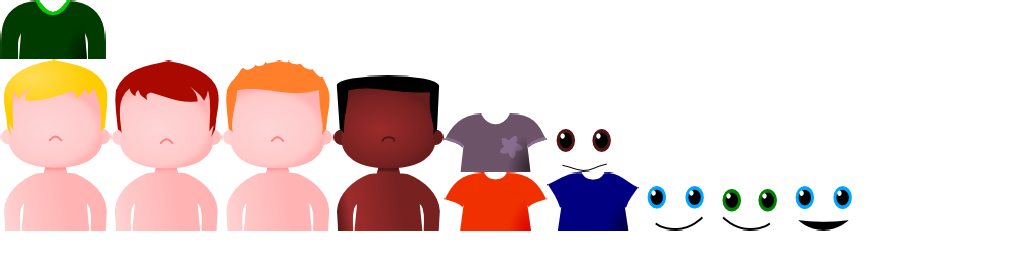
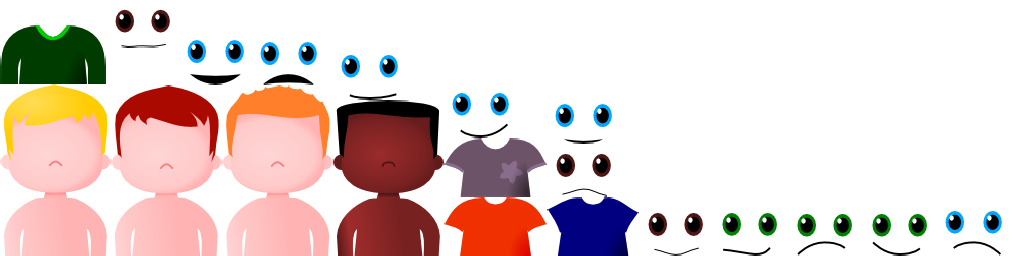
Add mood support

Changed region(s): [[0.0, 0.0, 1.0, 1.0], [0.9688, 0.9688, 1.0, 1.0], [0.9375, 0.9375, 0.9688, 0.9688]]

diff --git a/burgerparty/src/com/agateau/burgerparty/view/CustomerView.java b/burgerparty/src/com/agateau/burgerparty/view/CustomerView.java
@@ -1,6 +1,9 @@
 package com.agateau.burgerparty.view;
 
+import java.util.HashSet;
+
 import com.agateau.burgerparty.model.Customer;
+import com.agateau.burgerparty.utils.Signal0;
 import com.badlogic.gdx.graphics.g2d.TextureRegion;
 import com.badlogic.gdx.scenes.scene2d.ui.Image;
 import com.badlogic.gdx.scenes.scene2d.ui.WidgetGroup;
@@ -11,29 +14,37 @@ public class CustomerView extends WidgetGroup {
 		mFactory = factory;
 		mDirName = dirName;
 
+		mCustomer.moodChanged.connect(mHandlers, new Signal0.Handler() {
+			@Override
+			public void handle() {
+				updateFace();
+			}
+		});
+
 		// Body
-		CustomerViewFactory.BodyPart body = (CustomerViewFactory.BodyPart)mFactory.getCustomerPart(mDirName, bodyName, "");
-		Image bodyImage = getPartImage(body);
-		addActor(bodyImage);
+		mBodyPart = (CustomerViewFactory.BodyPart)mFactory.getCustomerPart(mDirName, bodyName, "");
+		mBodyImage = getPartImage(mBodyPart);
+		addActor(mBodyImage);
 
 		// Top
 		if (!topName.isEmpty()) {
 			CustomerViewFactory.CustomerPart top = mFactory.getCustomerPart(mDirName, topName, "");
 			Image topImage = getPartImage(top);
 			addActor(topImage);
-			xCenterImage(topImage, top, bodyImage, body);
+			xCenterImage(topImage, top, mBodyImage, mBodyPart);
 			topImage.setY(top.yOffset);
 		}
 
 		// Face
-		CustomerViewFactory.CustomerPart face = mFactory.getCustomerPart(mDirName, faceName, "happy");
-		Image faceImage = getPartImage(face);
-		addActor(faceImage);
-		xCenterImage(faceImage, face, bodyImage, body);
-		faceImage.setY(body.yFace + face.yOffset);
+		mFaceName = faceName;
+		updateFace();
 
-		setWidth(bodyImage.getWidth());
-		setHeight(Math.max(bodyImage.getHeight(), faceImage.getTop()));
+		setWidth(mBodyImage.getWidth());
+		setHeight(Math.max(mBodyImage.getHeight(), mFaceImage.getTop()));
+	}
+
+	public Customer getCustomer() {
+		return mCustomer;
 	}
 
 	private Image getPartImage(CustomerViewFactory.CustomerPart part) {
@@ -45,6 +56,17 @@ public class CustomerView extends WidgetGroup {
 		return new Image(region);
 	}
 
+	private void updateFace() {
+		if (mFaceImage != null) {
+			mFaceImage.remove();
+		}
+		CustomerViewFactory.CustomerPart facePart = mFactory.getCustomerPart(mDirName, mFaceName, mCustomer.getMood().toString());
+		mFaceImage = getPartImage(facePart);
+		addActor(mFaceImage);
+		xCenterImage(mFaceImage, facePart, mBodyImage, mBodyPart);
+		mFaceImage.setY(mBodyPart.yFace + facePart.yOffset);
+	}
+
 	private static void xCenterImage(Image image, CustomerViewFactory.CustomerPart imagePart, Image ref, CustomerViewFactory.CustomerPart refPart) {
 		float imageCenter = imagePart.xCenter > 0 ? imagePart.xCenter : (image.getWidth() / 2);
 		float refCenter = refPart.xCenter > 0 ? refPart.xCenter : (ref.getWidth() / 2);
@@ -54,4 +76,10 @@ public class CustomerView extends WidgetGroup {
 	private CustomerViewFactory mFactory;
 	private String mDirName;
 	private Customer mCustomer;
+	private String mFaceName;
+	private CustomerViewFactory.BodyPart mBodyPart = null;
+	private Image mBodyImage = null;
+	private Image mFaceImage = null;
+
+	HashSet<Object> mHandlers = new HashSet<Object>();
 }

diff --git a/burgerparty/src/com/agateau/burgerparty/view/WorldView.java b/burgerparty/src/com/agateau/burgerparty/view/WorldView.java
@@ -53,7 +53,7 @@ public class WorldView extends AnchorGroup {
 	private Bubble mBubble;
 	private CustomerViewFactory mCustomerFactory;
 	private Array<CustomerView> mWaitingCustomerViews = new Array<CustomerView>();
-	private CustomerView mActiveCustomer;
+	private CustomerView mActiveCustomerView;
 	private PauseOverlay mPauseOverlay;
 	private LevelResult mResult = null;
 
@@ -159,7 +159,7 @@ public class WorldView extends AnchorGroup {
 		if (!resized) {
 			return;
 		}
-		if (mActiveCustomer != null) {
+		if (mActiveCustomerView != null) {
 			showBubble();
 		}
 		updateCustomerPositions();
@@ -278,14 +278,14 @@ public class WorldView extends AnchorGroup {
 			)
 		);
 		mBubble.setVisible(false);
-		mActiveCustomer.addAction(
+		mActiveCustomerView.addAction(
 			Actions.sequence(
-				Actions.moveTo(getWidth(), mActiveCustomer.getY(), 0.4f, Interpolation.pow2In),
+				Actions.moveTo(getWidth(), mActiveCustomerView.getY(), 0.4f, Interpolation.pow2In),
 				Actions.run(toDoAfter),
 				Actions.removeActor()
 			)
 		);
-		mActiveCustomer = null;
+		mActiveCustomerView = null;
 	}
 
 	private void onMealExtraTrashed() {
@@ -297,6 +297,7 @@ public class WorldView extends AnchorGroup {
 	}
 
 	private void onMealFinished() {
+		mActiveCustomerView.getCustomer().setState(Customer.State.SERVED);
 		slideDoneMealView(new Runnable() {
 			@Override
 			public void run() {
@@ -319,7 +320,8 @@ public class WorldView extends AnchorGroup {
 	private void goToNextCustomer() {
 		setupMealView();
 		mInventoryView.setInventory(mWorld.getBurgerInventory());
-		mActiveCustomer = mWaitingCustomerViews.removeIndex(0);
+		mActiveCustomerView = mWaitingCustomerViews.removeIndex(0);
+		mActiveCustomerView.getCustomer().setState(Customer.State.ACTIVE);
 		updateCustomerPositions();
 	}
 
@@ -329,8 +331,8 @@ public class WorldView extends AnchorGroup {
 			return;
 		}
 		Array<CustomerView> customerViews = new Array<CustomerView>(mWaitingCustomerViews);
-		if (mActiveCustomer != null) {
-			customerViews.insert(0, mActiveCustomer);
+		if (mActiveCustomerView != null) {
+			customerViews.insert(0, mActiveCustomerView);
 		}
 		float centerX = getWidth() / 2;
 		float posY = MathUtils.ceil(mWorkbench.getTop() - 4);
@@ -348,20 +350,20 @@ public class WorldView extends AnchorGroup {
 			centerX -= width + padding;
 			delay += 0.1;
 		}
-		if (mActiveCustomer != null) {
+		if (mActiveCustomerView != null) {
 			Action doShowBubble = Actions.run(new Runnable() {
 				@Override
 				public void run() {
 					showBubble();
 				}
 			});
-			mActiveCustomer.addAction(Actions.after(doShowBubble));
+			mActiveCustomerView.addAction(Actions.after(doShowBubble));
 		}
 	}
 
 	private void showBubble() {
 		mBubble.setVisible(true);
-		mBubble.setPosition(MathUtils.ceil(mActiveCustomer.getRight() - 10), MathUtils.ceil(mActiveCustomer.getY() + 50));
+		mBubble.setPosition(MathUtils.ceil(mActiveCustomerView.getRight() - 10), MathUtils.ceil(mActiveCustomerView.getY() + 50));
 		mBubble.updateGeometry();
 	}
 }

diff --git a/burgerparty/src/com/agateau/burgerparty/model/Customer.java b/burgerparty/src/com/agateau/burgerparty/model/Customer.java
@@ -1,6 +1,33 @@
 package com.agateau.burgerparty.model;
 
+import com.agateau.burgerparty.utils.Signal0;
+import com.badlogic.gdx.utils.Timer;
+
 public class Customer {
+	public Signal0 moodChanged = new Signal0();
+
+	public enum Mood {
+		HAPPY("happy"),
+		NEUTRAL("neutral"),
+		ANGRY("angry");
+	
+		Mood(String text) {
+			mText = text;
+		}
+
+		public String toString() {
+			return mText;
+		}
+
+		private final String mText;
+	};
+
+	public enum State {
+		WAITING,
+		ACTIVE,
+		SERVED
+	}
+
 	public Customer(String type) {
 		mType = type;
 	}
@@ -9,5 +36,54 @@ public class Customer {
 		return mType;
 	}
 
+	public Mood getMood() {
+		return mMood;
+	}
+
+	public State getState() {
+		return mState;
+	}
+
+	public void setState(State state) {
+		assert(state != State.WAITING);
+		if (state == State.ACTIVE) {
+			assert(mState == State.WAITING);
+			mState = state;
+			scheduleMoodChange();
+			return;
+		}
+		if (state == State.SERVED) {
+			assert(mState == State.ACTIVE);
+			mState = state;
+			mMoodTimer.stop();
+			return;
+		}
+	}
+
+	private void scheduleMoodChange() {
+		mMoodTimer.scheduleTask(new Timer.Task() {
+			@Override
+			public void run() {
+				degradeMood();
+			}
+		}, MOOD_CHANGE_DELAY);
+	}
+	
+	private void degradeMood() {
+		assert(mMood != Mood.ANGRY);
+		if (mMood == Mood.HAPPY) {
+			mMood = Mood.NEUTRAL;
+			scheduleMoodChange();
+		} else {
+			mMood = Mood.ANGRY;
+		}
+		moodChanged.emit();
+	}
+
 	private String mType;
+	private Mood mMood = Mood.HAPPY;
+	private State mState = State.WAITING;
+	private Timer mMoodTimer = new Timer();
+
+	private static final float MOOD_CHANGE_DELAY = 5f;
 }
